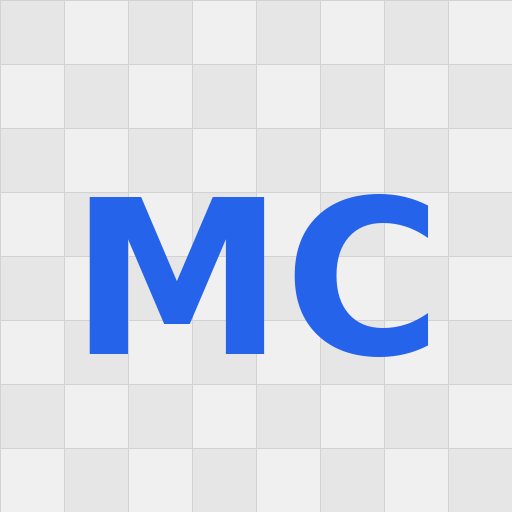
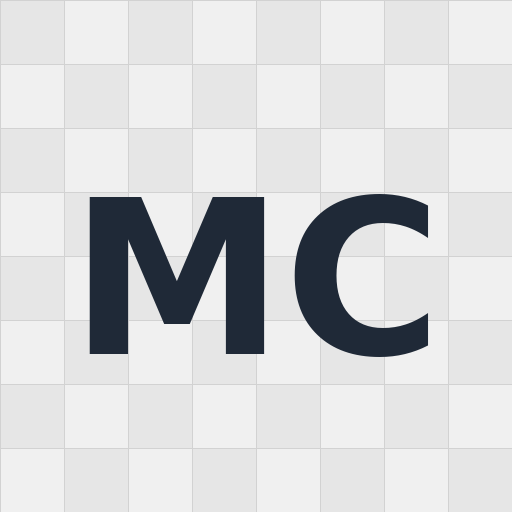
Add files via upload

Changed region(s): [[0.1562, 0.375, 0.5312, 0.7188], [0.5625, 0.375, 0.8438, 0.7188]]

diff --git a/style.css b/style.css
@@ -1,45 +1,53 @@
-*{box-sizing:border-box}html,body{margin:0;padding:0;height:100%}
+*{box-sizing:border-box;-webkit-tap-highlight-color:transparent}
+html,body{margin:0;padding:0;height:100%}
 :root{
-  --bg:#f5f7fb;
-  --text:#1a1d21;
+  --bg:#f8fafc;          /* skoro bijelo */
+  --text:#0b1220;        /* vrlo tamno */
   --card:#ffffff;
-  --border:#d9dee7;
-  --primary:#2563eb;
-  --accent:#22a05d;
+  --border:#1f2937;      /* tamna granica */
+  --muted:#e5e7eb;       /* svijetlo siva */
+  --primary:#1d4ed8;     /* duboka plava */
+  --accent:#16a34a;      /* zelena */
 }
 body{font-family:system-ui,-apple-system,Segoe UI,Roboto,Ubuntu,'Helvetica Neue',sans-serif;background:var(--bg);color:var(--text)}
-#app{max-width:820px;margin:0 auto;padding:16px}
+#app{max-width:860px;margin:0 auto;padding:16px}
 header{text-align:center;margin:12px 0 8px}
-h1{margin:0 0 6px;font-size:30px}
+h1{margin:0 0 6px;font-size:32px}
 #menu,.card{display:flex;gap:12px;align-items:center;flex-wrap:wrap}
-.card{background:var(--card);border:1px solid var(--border);padding:12px;border-radius:14px}
-label{opacity:.9}
-select{background:#fff;color:var(--text);border:1px solid var(--border);border-radius:10px;padding:10px 12px}
-button{padding:14px 18px;border-radius:14px;border:1px solid var(--border);background:var(--card);color:var(--text);cursor:pointer;font-weight:600}
-button.primary{background:var(--primary);border-color:var(--primary);color:#fff}
+.card{background:var(--card);border:2px solid var(--border);padding:12px;border-radius:14px;box-shadow:0 1px 0 rgba(0,0,0,.04)}
+label{opacity:.95;font-weight:600}
+select{background:#fff;color:var(--text);border:2px solid var(--border);border-radius:10px;padding:10px 12px;font-weight:600}
+button{padding:14px 18px;border-radius:14px;border:2px solid var(--border);background:var(--card);color:var(--text);cursor:pointer;font-weight:800}
+button.primary{background:var(--primary);border-color:var(--border);color:#fff}
 button.ghost{background:transparent}
 button:active{transform:translateY(1px)}
 .hidden{display:none}
 
-.hud{display:flex;justify-content:space-between;margin:10px 0 14px;background:var(--card);padding:12px;border-radius:12px;border:1px solid var(--border)}
+.hud{display:flex;justify-content:space-between;margin:12px 0 14px;background:var(--card);padding:12px 14px;border-radius:12px;border:2px solid var(--border);font-weight:700}
 
-#world{height:320px;background:
+#world{height:340px;background:
   linear-gradient(#cfe9ff,#eaf4ff) no-repeat top/100% 55%,
   #d9f7c7;
-padding:8px;border-radius:16px;border:1px solid var(--border);position:relative;overflow:hidden;box-shadow:0 2px 8px rgba(0,0,0,.04)}
-.grid{position:absolute;left:0;right:0;bottom:0;display:grid;grid-template-columns:repeat(10,1fr);gap:4px;padding:8px}
-.cell{width:100%;aspect-ratio:1/1;border-radius:8px;border:1px solid var(--border);image-rendering:pixelated;display:flex;align-items:center;justify-content:center;font-size:28px;background:#ffffff;color:var(--text)}
-.r1 .cell, .r2 .cell{background:#eaf8e4;border-color:#cfe8c3}
-.r3 .cell{background:#f3f6fb;border-color:#e0e7f1}
-.r4 .cell{background:#e9f9e1;border-color:#cfe8c3}
-.cell.progress-on{background:#dfe9ff}
-.cell.bottom-on{background:#c9f1d7}
+padding:10px;border-radius:16px;border:3px solid var(--border);position:relative;overflow:hidden;box-shadow:0 2px 8px rgba(0,0,0,.06)}
+.grid{position:absolute;left:0;right:0;bottom:0;display:grid;grid-template-columns:repeat(10,1fr);gap:6px;padding:10px}
+.cell{width:100%;aspect-ratio:1/1;border-radius:10px;border:3px solid var(--border);image-rendering:pixelated;display:flex;align-items:center;justify-content:center;font-size:36px;background:#ffffff;color:var(--text);}
+/* Sva četiri reda su bijela s tamnim rubom radi maksimalnog kontrasta,
+   ali dodamo jasne boje kad je nešto aktivno/popunjeno. */
+.r1 .cell, .r2 .cell{background:#ffffff}
+.r3 .cell{background:#ffffff}
+.r4 .cell{background:#ffffff}
 
-.task{margin:14px 0 10px;font-size:24px;text-align:center}
-.answers{display:grid;grid-template-columns:repeat(3,1fr);gap:12px}
-.answers button{font-size:22px;padding:18px;background:#fff;border:1px solid var(--border);border-radius:12px}
-footer{opacity:.7;text-align:center;margin-top:16px}
+.cell.progress-on{background:#fde68a;border-color:#b45309}  /* jantarno - progres u 3. redu */
+.cell.bottom-on{background:#16a34a;border-color:#065f46;color:#ffffff} /* zeleno - donji red */
 
-.overlay{position:fixed;inset:0;background:rgba(255,255,255,.97);display:flex;align-items:center;justify-content:center;z-index:9999}
-.overlay-content{font-size:22vw;line-height:1;color:#111;animation:pop 700ms ease both}
+/* zadatak i odgovori */
+.task{margin:16px 0 12px;font-size:28px;text-align:center;font-weight:800}
+.answers{display:grid;grid-template-columns:repeat(3,1fr);gap:14px}
+.answers button{font-size:26px;padding:18px;background:#fff;border:3px solid var(--border);border-radius:12px;font-weight:800}
+.answers button:active{transform:translateY(1px)}
+
+footer{opacity:.9;text-align:center;margin-top:16px;font-weight:600}
+
+.overlay{position:fixed;inset:0;background:rgba(255,255,255,.98);display:flex;align-items:center;justify-content:center;z-index:9999;border:6px solid var(--border)}
+.overlay-content{font-size:24vw;line-height:1;color:#0b1220;animation:pop 700ms ease both;text-shadow:0 2px 0 rgba(255,255,255,.6), 0 4px 10px rgba(0,0,0,.15)}
 @keyframes pop{0%{transform:scale(.7);opacity:.3}70%{transform:scale(1.05);opacity:1}100%{transform:scale(1)}}

diff --git a/game.js b/game.js
@@ -69,8 +69,8 @@
 
   function setBottomProgress(n){
     gridBottom.forEach((cell,i)=>{
-      cell.classList.toggle('bottom-on', i < n);
-      cell.textContent = i < n ? '▮' : '';
+    cell.classList.toggle('bottom-on', i < n);
+    cell.textContent = i < n ? '▮' : '';
     });
   }
 
@@ -128,7 +128,7 @@
       nextChallenge();
     } else {
       buzz();
-      taskEl.animate([{opacity:1},{opacity:.5},{opacity:1}],{duration:240});
+      taskEl.animate([{opacity:1},{opacity:.6},{opacity:1}],{duration:240});
       playTone(200, 0.08);
     }
   }

diff --git a/sw.js b/sw.js
@@ -1,4 +1,4 @@
-const CACHE = "mathcraft-light-v3";
+const CACHE = "mathcraft-hc-v1";
 const ASSETS = ["./","./index.html","./style.css","./game.js","./manifest.webmanifest","./icons/icon-192.png","./icons/icon-512.png"];
 self.addEventListener("install", e=>{ e.waitUntil(caches.open(CACHE).then(c=>c.addAll(ASSETS))); });
 self.addEventListener("activate", e=>{ e.waitUntil(caches.keys().then(keys=>Promise.all(keys.filter(k=>k!==CACHE).map(k=>caches.delete(k))))); });

diff --git a/index.html b/index.html
@@ -5,7 +5,7 @@
   <meta name="viewport" content="width=device-width, initial-scale=1, user-scalable=no">
   <title>MathCraft</title>
   <link rel="manifest" href="manifest.webmanifest">
-  <meta name="theme-color" content="#f5f7fb">
+  <meta name="theme-color" content="#f8fafc">
   <link rel="stylesheet" href="style.css">
   <script>
     if ("serviceWorker" in navigator) {
